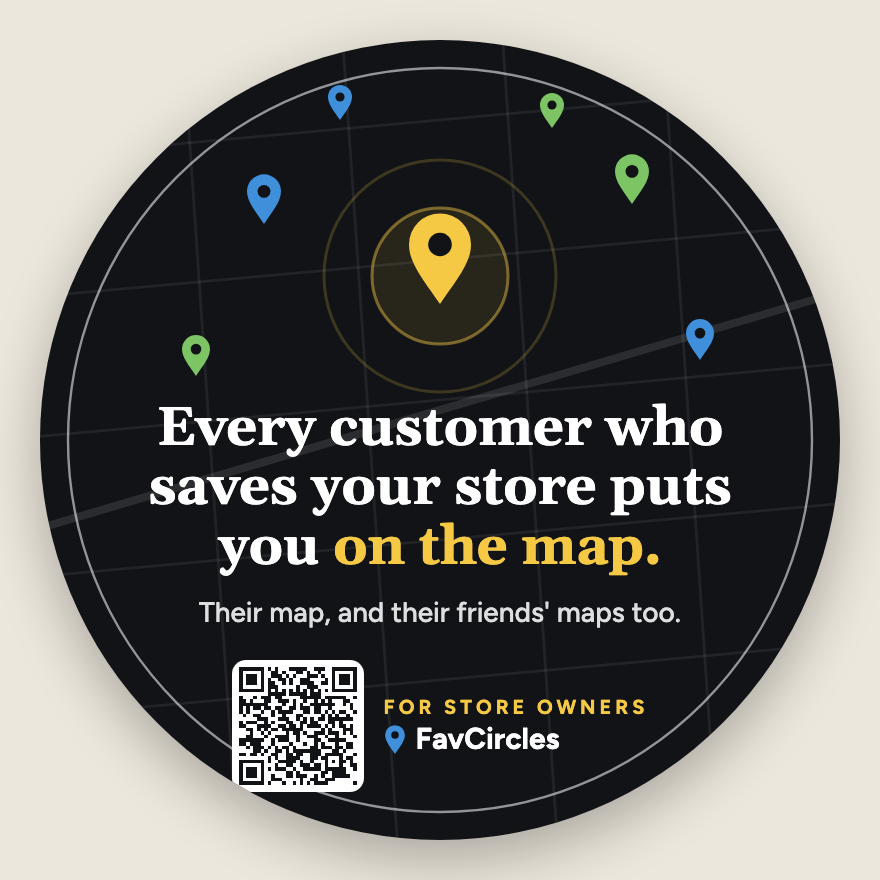
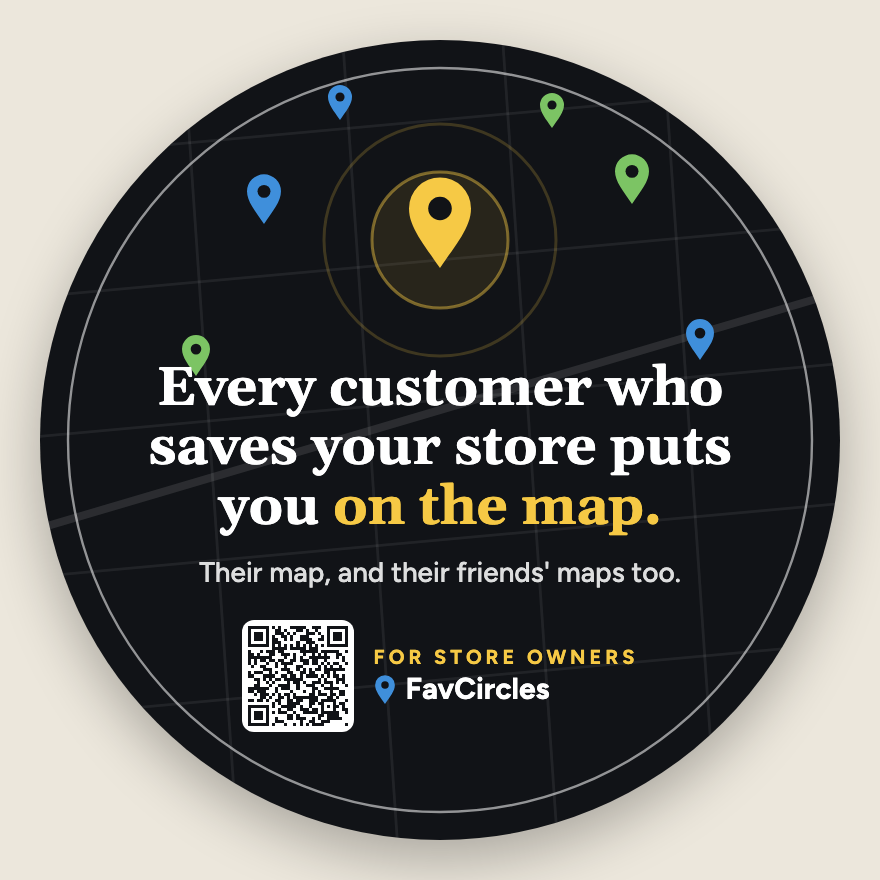
Store-owner coaster front: QR code sits inside the rim

Changed region(s): [[0.1534, 0.1227, 0.8284, 0.9205], [0.3989, 0.1534, 0.4295, 0.1841]]

diff --git a/Marketing/store-owner-leave-behinds/source/1-coaster-front.html b/Marketing/store-owner-leave-behinds/source/1-coaster-front.html
@@ -14,9 +14,9 @@ a{color:#F6C945}a:hover{color:#fff}
 <line x1="70" y1="-20" x2="100" y2="420"></line><line x1="150" y1="-20" x2="180" y2="420"></line><line x1="230" y1="-20" x2="260" y2="420"></line><line x1="310" y1="-20" x2="340" y2="420"></line>
 </g>
 <g stroke="#ffffff" stroke-opacity="0.11" stroke-width="4"><line x1="-20" y1="250" x2="420" y2="120"></line></g>
-<circle cx="200" cy="118" r="34" fill="#F6C945" fill-opacity="0.1" stroke="#F6C945" stroke-opacity="0.45" stroke-width="1.5"></circle>
-<circle cx="200" cy="118" r="58" fill="none" stroke="#F6C945" stroke-opacity="0.2" stroke-width="1.5"></circle>
-<g transform="translate(200,132) scale(0.62)"><path d="M0 0C-13-19-25-33-25-48A25 25 0 1 1 25-48C25-33 13-19 0 0Z" fill="#F6C945"></path><circle cy="-48" r="9.5" fill="#111317"></circle></g>
+<circle cx="200" cy="100" r="34" fill="#F6C945" fill-opacity="0.1" stroke="#F6C945" stroke-opacity="0.45" stroke-width="1.5"></circle>
+<circle cx="200" cy="100" r="58" fill="none" stroke="#F6C945" stroke-opacity="0.2" stroke-width="1.5"></circle>
+<g transform="translate(200,114) scale(0.62)"><path d="M0 0C-13-19-25-33-25-48A25 25 0 1 1 25-48C25-33 13-19 0 0Z" fill="#F6C945"></path><circle cy="-48" r="9.5" fill="#111317"></circle></g>
 <g transform="translate(112,92) scale(0.34)"><path d="M0 0C-13-19-25-33-25-48A25 25 0 1 1 25-48C25-33 13-19 0 0Z" fill="#3F8FDB"></path><circle cy="-48" r="9.5" fill="#111317"></circle></g>
 <g transform="translate(296,82) scale(0.34)"><path d="M0 0C-13-19-25-33-25-48A25 25 0 1 1 25-48C25-33 13-19 0 0Z" fill="#7CC464"></path><circle cy="-48" r="9.5" fill="#111317"></circle></g>
 <g transform="translate(78,168) scale(0.28)"><path d="M0 0C-13-19-25-33-25-48A25 25 0 1 1 25-48C25-33 13-19 0 0Z" fill="#7CC464"></path><circle cy="-48" r="9.5" fill="#111317"></circle></g>
@@ -25,11 +25,11 @@ a{color:#F6C945}a:hover{color:#fff}
 <g transform="translate(256,44) scale(0.24)"><path d="M0 0C-13-19-25-33-25-48A25 25 0 1 1 25-48C25-33 13-19 0 0Z" fill="#7CC464"></path><circle cy="-48" r="9.5" fill="#111317"></circle></g>
 <circle cx="200" cy="200" r="186" fill="none" stroke="#ffffff" stroke-opacity="0.55" stroke-width="1.2"></circle>
 </svg>
-<div style="position: absolute; left: 0; right: 0; top: 180px; display: flex; flex-direction: column; align-items: center; gap: 8px">
+<div style="position: absolute; left: 0; right: 0; top: 160px; display: flex; flex-direction: column; align-items: center; gap: 8px">
 <div style="font-family: 'Gelasio', Georgia, serif; font-weight: 700; color: #ffffff; font-size: 27px; line-height: 1.1; text-align: center; max-width: 310px">Every customer who saves your store puts you <span style="color: #F6C945">on the map.</span></div>
 <div style="font-size: 14px; color: #ffffff; opacity: 0.86; text-align: center; max-width: 270px; line-height: 1.35">Their map, and their friends' maps too.</div>
 <div style="display: flex; align-items: center; gap: 10px; margin-top: 6px">
-<img src="qr-store-owners.svg" alt="QR code to the FavCircles Store Owners page" style="width: 66px; height: 66px; border-radius: 7px; display: block">
+<img src="qr-store-owners.svg" alt="QR code to the FavCircles Store Owners page" style="width: 56px; height: 56px; border-radius: 6px; display: block">
 <div style="display: flex; flex-direction: column; gap: 1px">
 <div style="font-size: 10px; letter-spacing: 2px; color: #F6C945; font-weight: 700">FOR STORE OWNERS</div>
 <div style="display: flex; align-items: center; gap: 5px">
